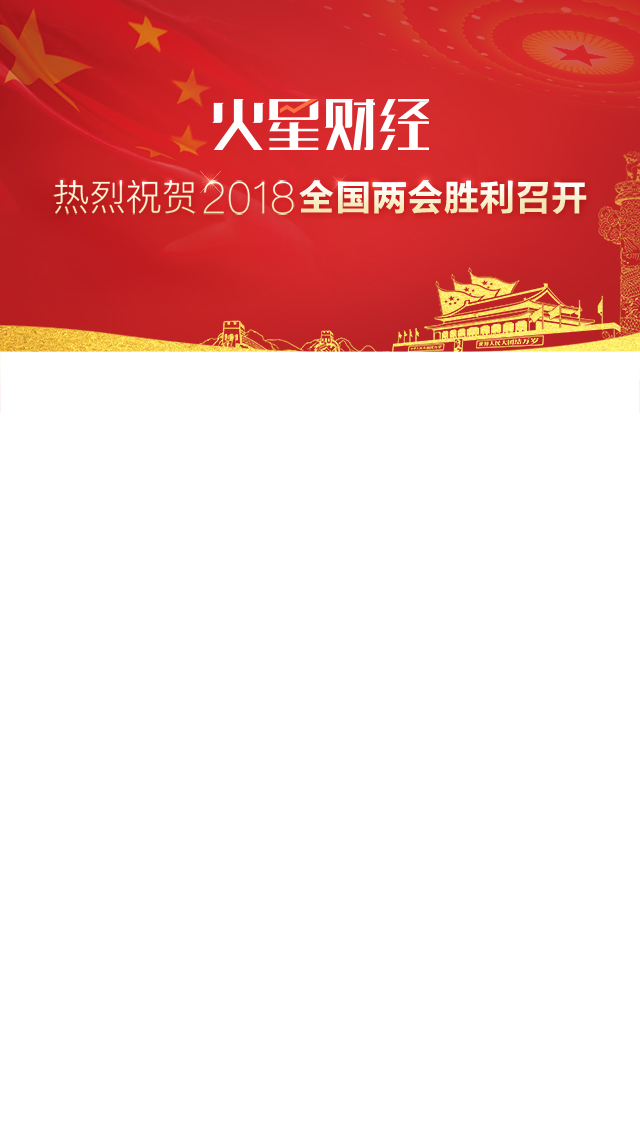
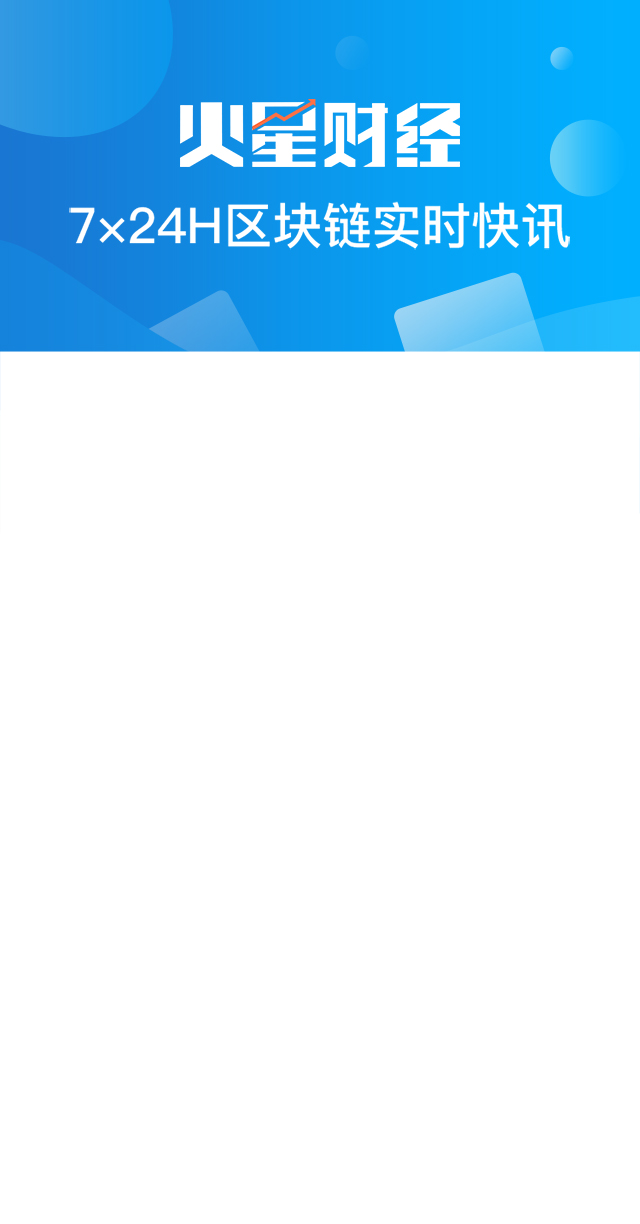
去掉两会信息

diff --git a/src/css/index.scss b/src/css/index.scss
@@ -100,7 +100,7 @@ body,
 
         $itemWidth: 620/7;
 
-        $bodyWrapWidth: (9 * $itemWidth + 130);
+        $bodyWrapWidth: (8 * $itemWidth + 130);
 
         position: inherit;
         top: 0;
@@ -123,7 +123,7 @@ body,
             height: 100%;
             background: none;
 
-            &:nth-child(5) {
+            &:nth-child(4) {
                 width: rem(125);
             }
 

diff --git a/config.js b/config.js
@@ -8,7 +8,7 @@ const proxy = require('http-proxy-middleware')
  * publicPath (1:此处publicPath;   2:libs/scss/util-pc或libs/scss/util-m;   3:自定义JS中加载的图片--src/js/public/public)
  */
 module.exports = {
-    host: '192.168.84.1',
+    host: '192.168.102.215',
     port: '8060',
     publicPath: 'http://m.huoxing24.com',
     vendors: [],

diff --git a/src/js/index.js b/src/js/index.js
@@ -26,9 +26,6 @@ const navIndex = [
         title: '快讯',
         channelId: '100' // 假的channelId
     }, {
-        title: '两会',
-        channelId: '10'
-    }, {
         title: '产业',
         channelId: '2'
     }, {
